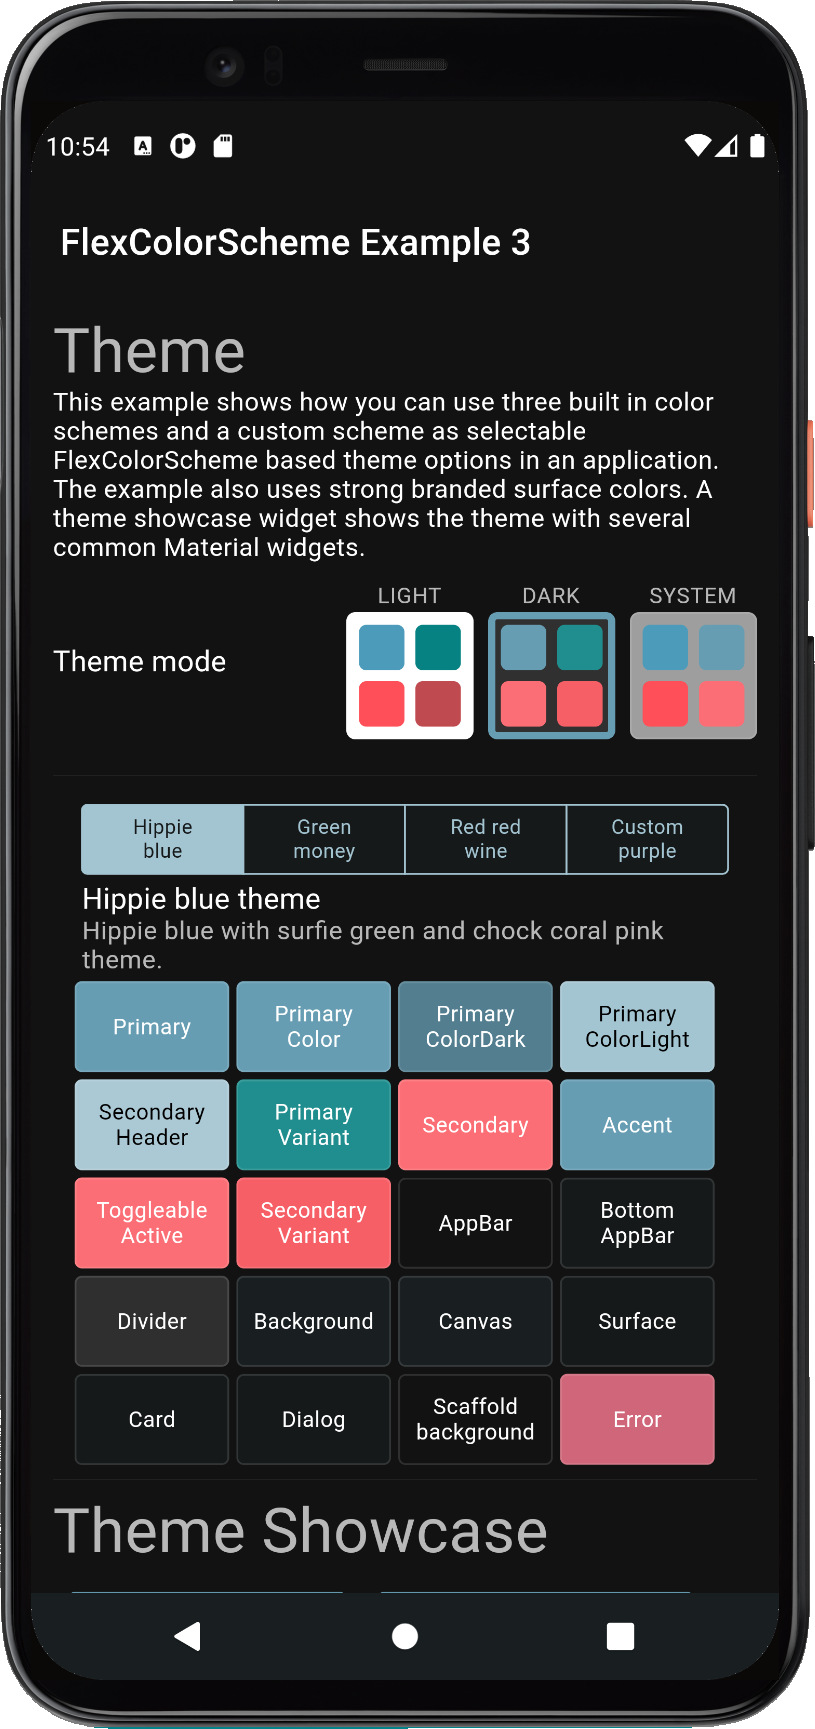
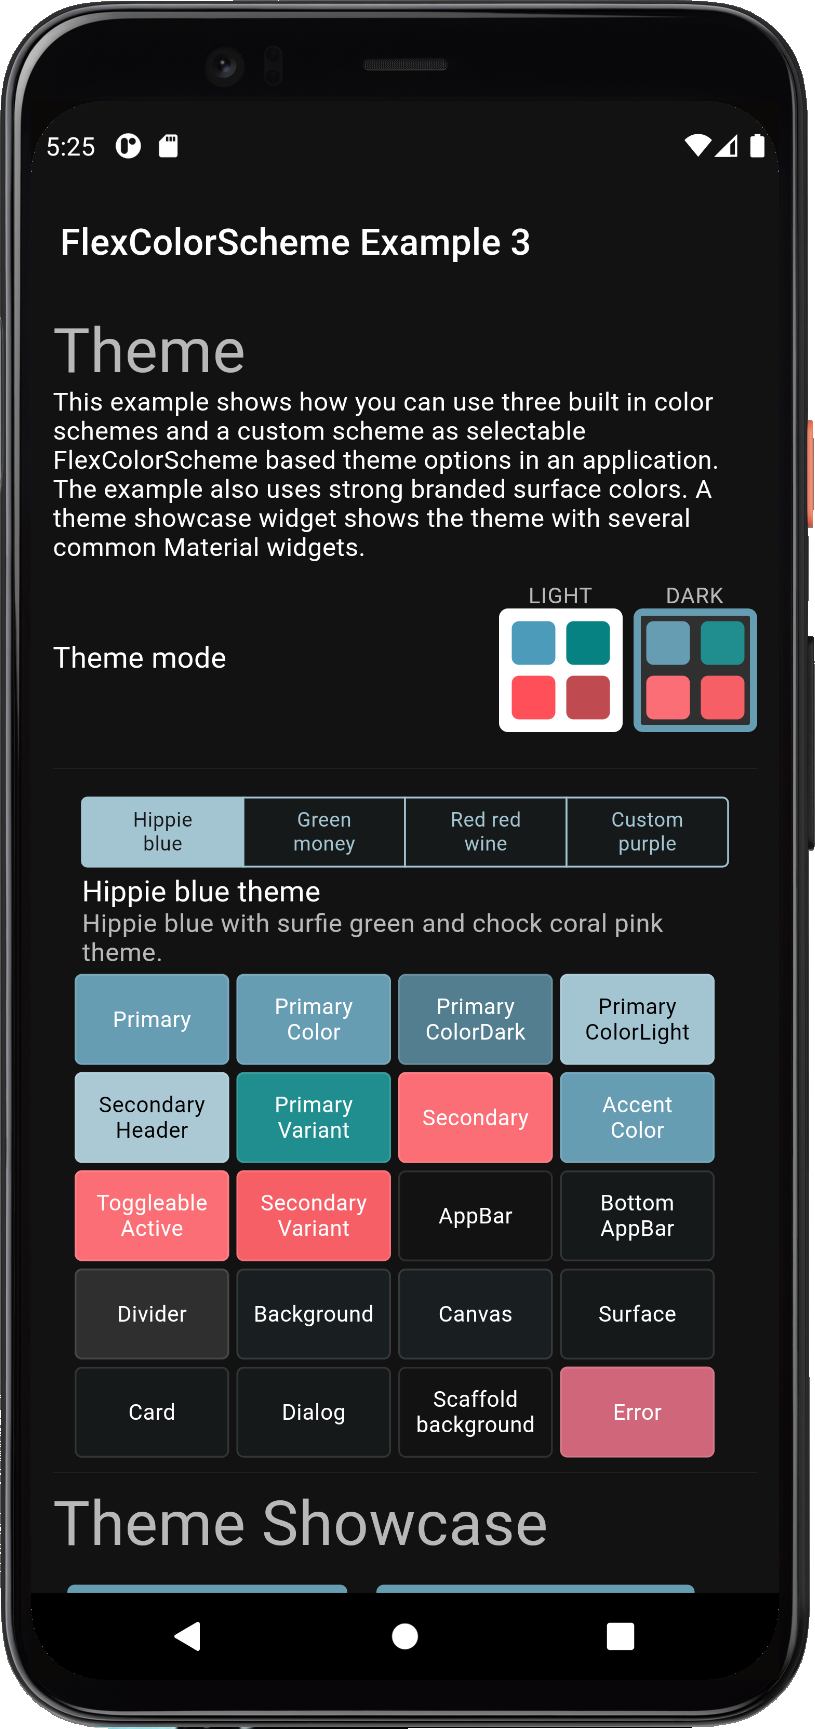
Doc updates for 1.1.1

diff --git a/lib/src/flex_color_scheme.dart b/lib/src/flex_color_scheme.dart
@@ -829,7 +829,7 @@ class FlexColorScheme {
   /// returns [VisualDensity.compact] for the desktop platforms. If this seems
   /// too dense and you prefer `comfortable` on desktop and still like the even
   /// less dense default on on devices, then use this platform dependent
-  /// [VisualDensity] function instead for `visualDensity` in your theme.
+  /// [VisualDensity] function as `visualDensity` for your theme.
   static VisualDensity get comfortablePlatformDensity {
     switch (defaultTargetPlatform) {
       case TargetPlatform.android:

diff --git a/README.md b/README.md
@@ -180,15 +180,13 @@ to using FlexColorScheme and is really only there to better demonstrate the resu
 The default example 1, is just a repeat of the above example, but with a `themeMode` 3-way toggle 
 switch, an effective theme colors widget, plus a bunch of dummy commonly used Material UI widgets. 
 
-> **Can I use different built in schemes for my light and dark themes?**  
-> Yes this is possible, just use different enums as keys for the light and dark FlexColorScheme factories
+> **Can I use different built-in schemes for my light and dark themes?**  
+> Yes this is possible, just use different enums values as keys for the light and dark FlexColorScheme factories
 > when you get the predefined FlexSchemeData from the map. If the colors in used schemes are a bit related this 
-> can actually be used to create new very nice and unique light and dark combinations of the predefined schemes.
+> can be used to create nice and unique light and dark combinations of the predefined schemes.
 > 
-> **Note**    
 > You can even apply a FlexSchemeColor that has data that was designed for a light theme to the FlexColorScheme.dark 
-> factory and wise versa. The result will just not be as useful or pretty.
-> 
+> factory and wise versa. The result will just not be as useful or pretty.   
 > The rationale for the slightly involved structure, is to keep it flexible, but at the same time provide self
 > documenting API guidance on how the data was designed to be used and consumed.
 
@@ -204,22 +202,23 @@ cd example/
 flutter run --release
 ```
 
-The result is a sample app that uses one of the built-in color schemes as its theme. Has a light/dark/system theme
-mode switch, includes theme colors and widget samples, so you can see the theme colors and theme impact 
-on common Material widgets.
+The result is a sample app that uses one of the built-in "Oh Mandy red" color schemes as its theme. Has a 
+light/dark/system theme mode switch, includes a theme colors and Material UI widget samples, so you can 
+see the theme colors and theme's impact on common Material UI widgets.
 
 <img src="https://github.com/rydmike/flex_color_scheme/blob/master/resources/fcs_phone_ex1al.png?raw=true" alt="ColorScheme example 1 light" width="150"/><img src="https://github.com/rydmike/flex_color_scheme/blob/master/resources/fcs_phone_ex1bl.png?raw=true" alt="ColorScheme example 1 lightb" width="150"/><img src="https://github.com/rydmike/flex_color_scheme/blob/master/resources/fcs_phone_ex1cl.png?raw=true" alt="ColorScheme example 1 dark" width="150"/>
 
-> **Building the other examples**  
->If you clone the repository to build the examples, then open the package `/example` folder with your IDE to build
+> **Building the examples**  
+>If you cloned the repository to build the examples, you can open the package `/example` folder with your IDE to build
 >the above default example. This example is the same as the example in the `/example/lib/example1` folder.
 > 
 >If you want to build the other examples, without setting up different configurations in your IDE for the different 
->main files, you can just copy and paste each example's code into the `/example/lib/main.dart` file to build it.
+>main files, you can copy and paste the wanted example's `main.dart` code into the `/example/lib/main.dart` file to 
+> build it from your IDE.  
 > 
->Just change the relative import for the all shared imports to:  
+>After copying the other example content, change the relative import for the "all shared imports" file to:  
 >`import 'all_shared_imports.dart';`   
->and for examples 4 and 5, also the sub page import to:  
+>and for examples 4 and 5, also the "sub page" import to:  
 >`import 'shared/sub_page.dart';` 
 
 ### Live WEB Demos of the Examples
@@ -265,25 +264,25 @@ Go through the examples, and you will be ready to make cool interactively custom
 
 ## Tutorial
 
-In this tutorial we go through all the bundled examples and explain them. For simplicity the
-example applications do not use any advanced state management solution. The key part to each example is always in
-the used stateful **MaterialApp**, where all the scheme setup for the themes are made. The rest of the
-content in the examples is just there to make a relevant visual presentation of the resulting theme from the used
+In this tutorial we go through all the bundled examples and explain the `FlexColorScheme` relevant topics. 
+For simplicity the example applications do not use any advanced state management solution. The key part for each 
+example is always in the used stateful `MaterialApp`, where all the scheme setup for the themes are made. The rest of 
+the content in the examples is just there to make a visual presentation of the resulting theme from the used
 color scheme.
 
 ### HomePage for the Examples
  
 The content of the `HomePage` in all these examples is not really so relevant for using `FlexColorScheme` based
-application theming. The critical parts are in the example `MaterialApp` theme definitions. The `HomePage` just
+application theming. The critical parts are in the example `MaterialApp` theme definitions. The `HomePage` mostly
 contains UI to visually show what the defined themes look like when used in an application with commonly 
 used Widgets. In example 5 we can also make interactive changes to used FlexColorScheme API values to
-see and learn how they work.
+see and learn more about how they work.
 
-In all the examples we pass in the `FlexSchemeData` we used for the active theme to the application's `HomePage`. 
+In all the examples we pass in the `FlexSchemeData` object we used for the active theme to the application's `HomePage`. 
 This is not really needed in order to use `FlexColorScheme` based themes, but we use it to be able to show
 the active theme name and its description in the examples. We also use its color data for the 3-way theme mode switch
-`FlexThemeModeSwitch`, that uses the light and ark scheme colors in its theme toggle widget for the theme mode 
-option buttons that also show the 4 main colors in the active light and dark scheme.
+`FlexThemeModeSwitch`, that uses the light and dark scheme colors in its theme toggle widget for the theme mode 
+option buttons, that also show the 4 main colors in the active light and dark scheme.
 
 ### Optional FlexThemeModeSwitch
 
@@ -292,8 +291,9 @@ for the 3-way theme mode switch used in all the examples to change the active th
 
 <img src="https://github.com/rydmike/flex_color_scheme/blob/master/resources/theme_mode_switch.png?raw=true" alt="theme mode switch" width="350"/>
 
-Using it is very simple, give it the active theme mode, the active `FlexSchemeData` scheme and use the
-`onThemeModeChanged` callback for changes, and act on it in the `MaterialApp` `themeMode`.
+Using the switch is very simple, give it the active theme mode, the active `FlexSchemeData` scheme and use the
+`onThemeModeChanged` callback for changes, and act on it in the `MaterialApp` `themeMode` to actually toggle used
+mode and theme.
 
 ```dart
 FlexThemeModeSwitch(
@@ -306,10 +306,10 @@ FlexThemeModeSwitch(
 Using the `FlexThemeModeSwitch` 3-way theme mode switch is optional and not required to
 use `FlexColorScheme` based themes. It is a simple, but different theme mode switch design and was included 
 as a bonus feature in the `FlexColorScheme` package. It was added based on a request after it
-had been seen in the Flexfold demo app.  
+had been observed in the wild in the Flexfold demo app.  
 
-In the Flexfold demo app the switch was originally a fairly fixed design, but now `FlexThemeModeSwitch` has many
-properties that allows you to customize it extensively. You can find its [API 
+In the Flexfold demo app the switch was originally a fairly fixed design, now `FlexThemeModeSwitch` has many
+properties that allow you to customize it extensively. You can find its [API 
 reference here](https://pub.dev/documentation/flex_color_scheme/latest/flex_color_scheme/FlexThemeModeSwitch-class.html)
 and its companion, the `FlexThemeModeOptionButton` 
 [API reference here](https://pub.dev/documentation/flex_color_scheme/latest/flex_color_scheme/FlexThemeModeOptionButton-class.html). 
@@ -318,9 +318,9 @@ With the API you can customize the look of the `FlexThemeModeSwitch`, here are s
 
 <img src="https://github.com/rydmike/flex_color_scheme/blob/master/resources/ThemeSwitchCustomize.png?raw=true" alt="theme mode customize"/>
 
-The `FlexThemeModeOptionButton` is typically just used by the `FlexThemeModeSwitch`, but it can also be used as a part
+The `FlexThemeModeOptionButton` is typically used by the `FlexThemeModeSwitch`, but it can also be used as a part
 of other theme related indicator widgets. Like for example the scrolling horizontal list used in the Flexfold demo.
-Where it is used as theme indicator in a list used as a way to show available themes and select the active theme, 
+Where it is used as theme indicator in a list, used as a way to show all available themes and select the active theme, 
 just as an alternative to the rather plain popup menu.
 
 <img src="https://github.com/rydmike/flex_color_scheme/blob/master/resources/ThemeIndicatorList.png?raw=true" alt="theme indicator list"/>
@@ -330,6 +330,10 @@ just as an alternative to the rather plain popup menu.
 The first and simplest example shows how you can use a predefined color scheme in `FlexColorScheme` to
 define light and dark themes using the scheme, and then switch between the light and dark mode. A theme showcase 
 widget shows the theme with several common Material widgets.
+
+This is example basically a repeat of the Flutter default counter app modification example above, but with a different 
+`HomePage` and a way to change the `MaterialApp` active `themeMode` property value via the `FlexThemeModeSwitch` 
+switch on the `HomePage` and an ordinary callback.
 
  ```dart
 void main() => runApp(const DemoApp());
@@ -383,6 +387,8 @@ class _DemoAppState extends State<DemoApp> {
         onThemeModeChanged: (ThemeMode mode) {
           setState(() { themeMode = mode; });
         },
+        // Pass in the used active FlexSchemeData so we can 
+        // use its properties on the HomePage.
         flexSchemeData: FlexColor.schemes[usedFlexScheme],
       ),
     );
@@ -390,6 +396,20 @@ class _DemoAppState extends State<DemoApp> {
 }
 
 ```
+
+> **There is one more small addition**  
+> Example 1 and the other examples, use comfortable adaptive platform visual density via
+> `FlexColorScheme.comfortablePlatformDensity`, instead of the counter app's normal
+> `VisualDensity.adaptivePlatformDensity`.
+> 
+> This is an alternative that on desktop app's results in the Flutter
+> `comfortable` visual density being used, instead of `compact`. On devices, they both result in default large
+> small device friendly visual density. This helper function was added to provide an easy option for using a bit larger
+> UI elements also on desktop and web apps while keeping the correct size for devices. This is useful if the desktop
+> and web versions are occasionally used on computers with touch screens. The `comfortable` density is a nice 
+> balance that still look compact enough to be desktop like, while providing a bit
+> more touch friendly space without looking like an overblown device UI on a desktop.
+
 
 #### Building and running example 1
 
@@ -407,16 +427,17 @@ convenient fixes for some theme design gaps in Flutter's own themes created with
 
 ### Example 2 Create a custom color scheme
 
-This example shows how you can define your own FlexSchemeData and create a FlexColorScheme based themes from it.
+This example shows how you can define your own `FlexSchemeData` and create `FlexColorScheme` based themes from it.
 A theme showcase widget shows the theme with several common Material widgets.
 
 The full code is not shown in the tutorial, please see the code in the package folder
 [flex_color_scheme/example/lib/example2](https://github.com/rydmike/flex_color_scheme/tree/master/example/lib/example2/main.dart)
 for the entire example.
 
-To make a custom scheme color, let us for simplicity define it as a const in this example. We just need to make a
-[FlexSchemeData] object with a name, description and scheme colors for the light and matching dark theme.
-In this example we use dark purple and deep green and matching desaturated versions in dark-mode.
+To make a custom color scheme, we will for simplicity just define it as a constant in this example. 
+We make a `FlexSchemeData` object with a name, description and scheme colors defined with
+`FlexSchemeColor` for the light and matching dark scheme. In this example we use dark purple and deep green 
+and matching desaturated versions for the dark scheme.
 
 ```dart
 const FlexSchemeData customFlexScheme = FlexSchemeData(
@@ -437,9 +458,11 @@ const FlexSchemeData customFlexScheme = FlexSchemeData(
 );
 ```
 
-Then we use this `FlexSchemeData` **customFlexScheme** instance `light` and `dark` properties to
-pass the appropriate scheme's colors to the `FlexColorScheme.light` and `dark` factory for each theme mode and then 
-`toTheme` to get the themes they define.
+Then we use this `FlexSchemeData` **customFlexScheme** instance `light` and `dark` properties as scheme `colors` 
+for the `FlexColorScheme.light` and `dark` factory for each theme mode and `toTheme` to get the themes they define.
+
+This setup is totally equivalent to how we used one of the built-in predefined `FlexSchemeData` objects in example 1, 
+in this case we just defined our own custom `FlexSchemeData` in `customFlexScheme`.
 
 ```dart
   :
@@ -464,6 +487,7 @@ pass the appropriate scheme's colors to the `FlexColorScheme.light` and `dark` f
         onThemeModeChanged: (ThemeMode mode) {
           setState(() { themeMode = mode; });
         },
+        // We use our custom FlexSchemeData on the HomePage too.
         flexSchemeData: customFlexScheme,
       ),
     );
@@ -484,17 +508,18 @@ theme properties.
 
 ### Example 3 Switch between different color schemes
 
-This example shows how you can use three built-in color schemes, and add one custom scheme, then use all four as
-selectable FlexColorScheme based theme options in an application. The example also uses strong branded surface 
+This example shows how you can use three built-in color schemes, add a custom scheme and then use all four as
+selectable `FlexColorScheme` based theme options in an application. The example also uses strong branded surface 
 colors. A theme showcase widget shows the theme with several common Material widgets.
 
 The full example code is not shown here, please see the code in the package folder
 [flex_color_scheme/example/lib/example3](https://github.com/rydmike/flex_color_scheme/tree/master/example/lib/example3/main.dart)
 for the entire example.
 
-The customFlexScheme FlexSchemeData definition is the same as in example 2. In the example below, if we select the 
-`FlexScheme.custom` option, we use our customFlexScheme object, otherwise the selected built-in scheme we selected on
-the HomePage is used. We also set the surface style to `FlexSurface.strong`, for strong primary branded surfaces.
+The **customFlexScheme** `FlexSchemeData` definition is the same as in example 2, it is not repeated below. 
+In the example below, if we select the `FlexScheme.custom` option, we use our **customFlexScheme** object, otherwise 
+the selected built-in scheme we selected on the HomePage is used. We also set the surface style to
+`FlexSurface.strong`, for a strong primary color branded blend in surfaces and backgrounds.
 
  ```dart
  :
@@ -516,13 +541,19 @@ the HomePage is used. We also set the surface style to `FlexSurface.strong`, for
        title: 'FlexColorScheme',
 
        theme: FlexColorScheme.light(
+         // When we select the custom FlexScheme on the home 
+         // page, we get the custom enum value back and use the custom 
+         // scheme we defined, otherwise we use the selected scheme 
+         // from the the built in map.
          colors: flexScheme == FlexScheme.custom
              ? customFlexScheme.light
              : FlexColor.schemesWithCustom[flexScheme].light,
+         // This surface style gives a strong blend of primary
+         // color on surfaces and background colors.
          surfaceStyle: FlexSurface.strong,
          visualDensity: FlexColorScheme.comfortablePlatformDensity,
        ).toTheme,
-
+       // Just a repeat with equivalent setup for dark theme.
        darkTheme: FlexColorScheme.dark(
          colors: flexScheme == FlexScheme.custom
              ? customFlexScheme.dark
@@ -555,7 +586,7 @@ the HomePage is used. We also set the surface style to `FlexSurface.strong`, for
  ```
 
 In this example on the **HomePage** we removed the option to allow the theme mode to depend on the system theme mode 
-setting, by setting `showSystemMode` to `false`, thus removing the option from switch. 
+setting, by setting `showSystemMode` to `false`, thus removing this option from switch. 
 
 ```dart
   :
@@ -569,7 +600,8 @@ setting, by setting `showSystemMode` to `false`, thus removing the option from s
 ```
 
 
-These are the four different themes we can select with in this demo and their dark modes.
+These are the four resulting different themes with their light and dark modes, that we can select and 
+use with this example.
 
 **Hippie blue** scheme in light and dark mode.  
 <img src="https://github.com/rydmike/flex_color_scheme/blob/master/resources/fcs_phone_ex3al.png?raw=true" alt="ColorScheme example 3a light" width="250"/><img src="https://github.com/rydmike/flex_color_scheme/blob/master/resources/fcs_phone_ex3ad.png?raw=true" alt="ColorScheme example 3a dark" width="250"/>
